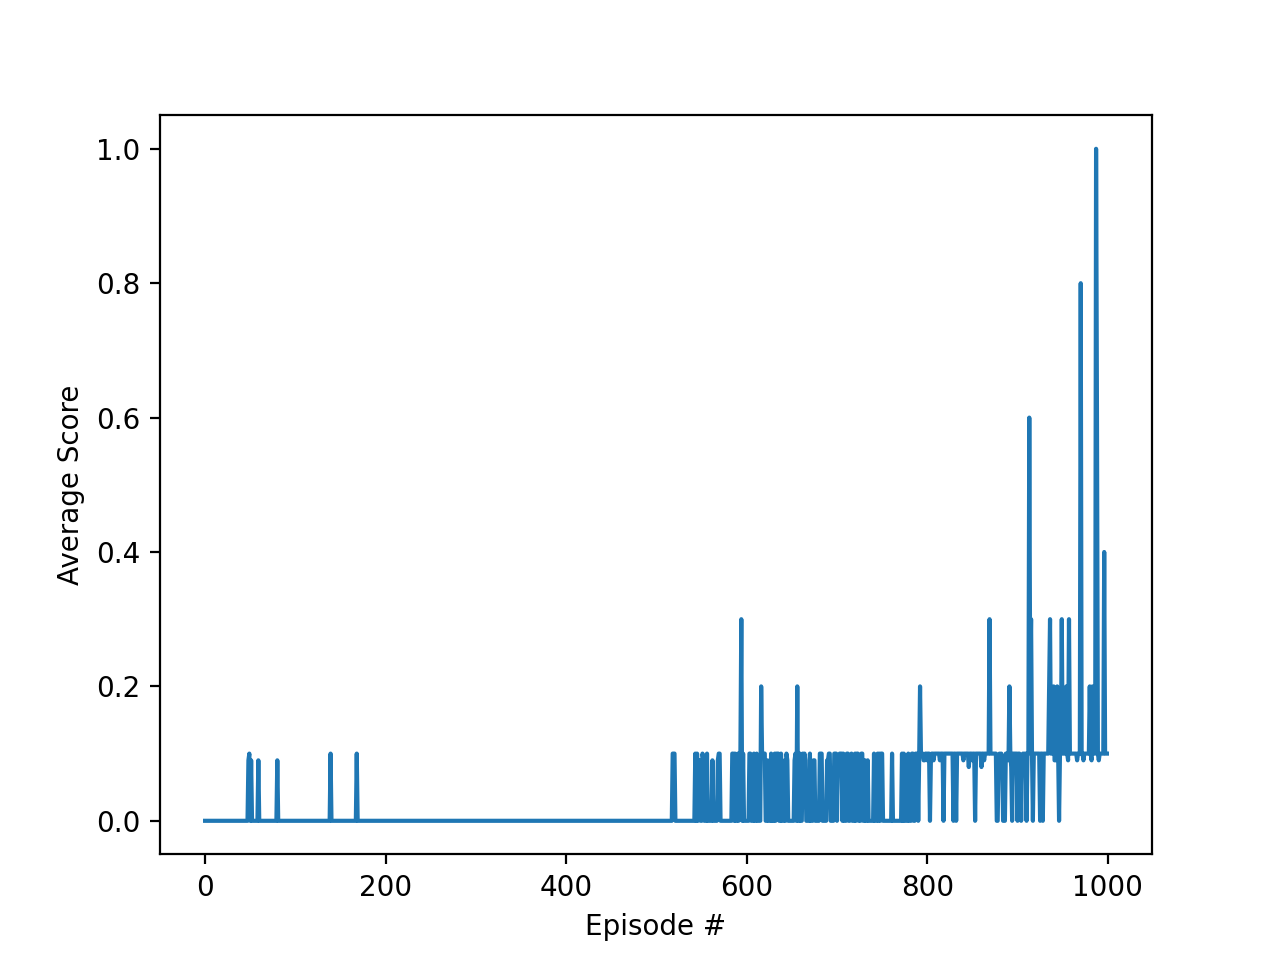
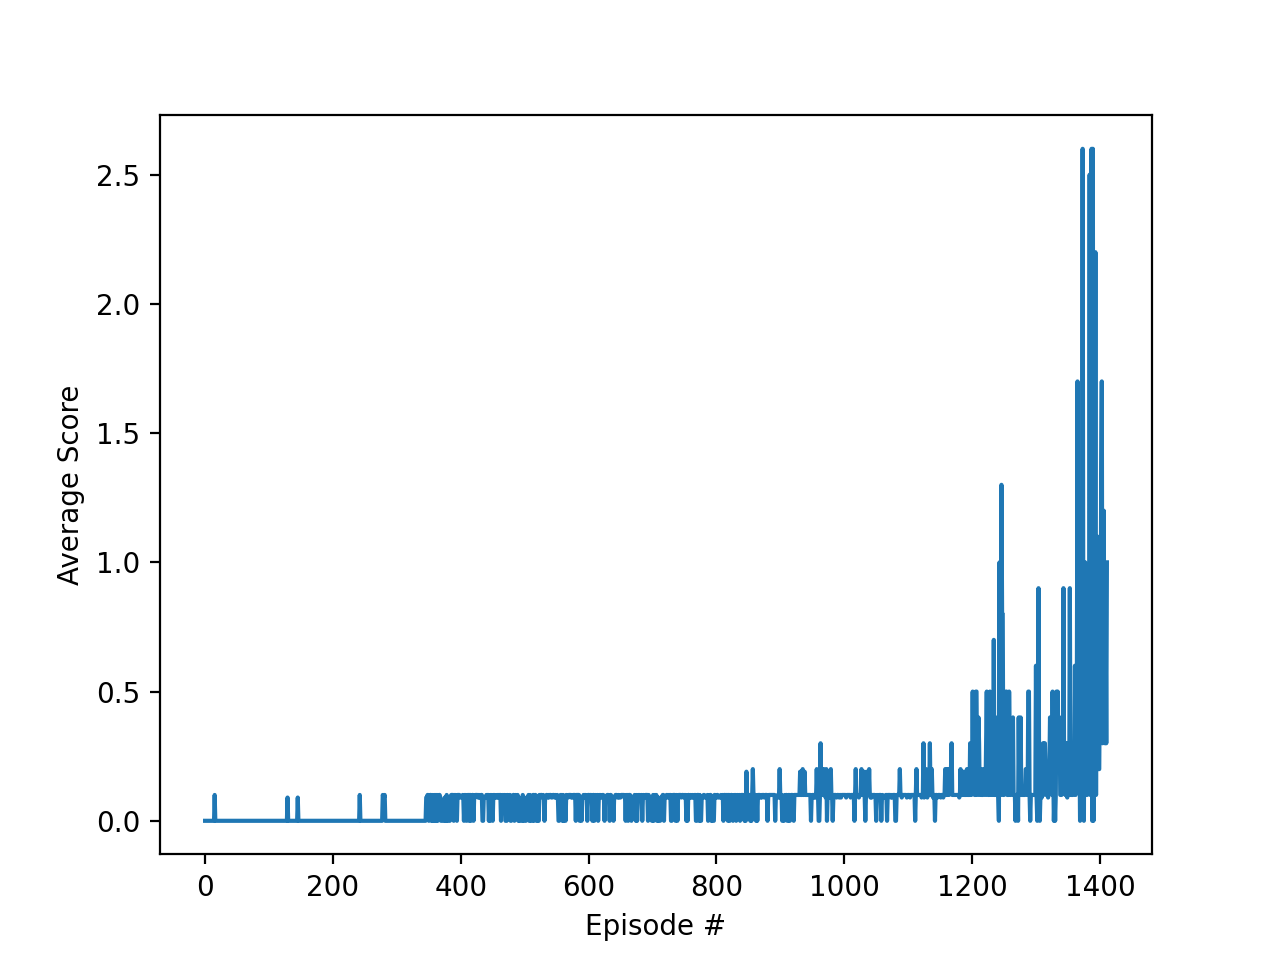
updated test and report

diff --git a/tennis/environment.py b/tennis/environment.py
@@ -5,17 +5,17 @@ import numpy as np
 import torch
 import os
 
-def make_plot(show=False):
+
+def make_plot(scores_file,save_path,show=False):
     """Makes a pretty training plot call score.png.
     Args:
         show (bool):  If True, show the image.  If False, save the image.
     """
-
-
-
+    'scores/scores_train.npz'
+    './ images / scores.png'
     # Load the previous scores and calculated running mean of 100 runs
     # ---------------------------------------------------------------------------------------
-    with np.load('scores.npz') as data:
+    with np.load(scores_file) as data:
         scores = data['arr_0']
     cum_sum = np.cumsum(np.insert(scores, 0, 0))
     rolling_mean = (cum_sum[100:] - cum_sum[:-100]) / 100
@@ -29,7 +29,7 @@ def make_plot(show=False):
     plt.scatter(x, scores, s=2, c='k', label='Raw Scores', zorder=4)
     plt.plot(x[99:], rolling_mean, lw=2, label='Rolling Mean', zorder=3)
     plt.scatter(x_max, rolling_mean[-1], c='g', s=40, marker='*', label='Episode {}'.format(x_max), zorder=5)
-    plt.plot([0, x_max], [30, 30], lw=1, c='grey', ls='--', label='Target Score = 30', zorder=1)
+    plt.plot([0, x_max], [0.5, 0.5], lw=1, c='grey', ls='--', label='Target Score = 0.5', zorder=1)
     plt.plot([x_max, x_max], [y_min, rolling_mean[-1]], lw=1, c='grey', ls='--', label=None, zorder=2)
     plt.ylabel('Score')
     plt.xlabel('Episode #')
@@ -39,11 +39,13 @@ def make_plot(show=False):
     if show:
         plt.show()
     else:
-        plt.savefig('./images/scores.png', dpi=200)
+        plt.savefig(save_path, dpi=200)
     plt.close()
 
-def make_plot_learning(show=False):
-    with np.load('scores.npz') as data:
+
+def make_plot_learning(scores_file,save_path,show=False):
+    #scores/scores_train.npz
+    with np.load(scores_file) as data:
         scores = data['arr_0']
     fig = plt.figure()
     ax = fig.add_subplot(111)
@@ -53,10 +55,12 @@ def make_plot_learning(show=False):
     if show:
         plt.show()
     else:
-        plt.savefig('./images/learning.png', dpi=200)
+        #'./images/learning.png'
+        plt.savefig(save_path, dpi=200)
     plt.close()
 
-def train(agent,env,n_episodes=2_000,max_t=1000,save_models=True):
+
+def train(agent, env, n_episodes=2_000, max_t=1000, save_models=True):
     """
     :param agent: The agent to train
     :param env: The trainining environment
@@ -72,8 +76,7 @@ def train(agent,env,n_episodes=2_000,max_t=1000,save_models=True):
 
     # Save pytorch_models weights and scores
 
-
-    for i_episode in range(1,n_episodes+1):
+    for i_episode in range(1, n_episodes + 1):
         brain_info = env.reset(train_mode=True)[brain_name]
         states = brain_info.vector_observations
         # Reset the agents noise level
@@ -103,20 +106,18 @@ def train(agent,env,n_episodes=2_000,max_t=1000,save_models=True):
         print('\rEpisode {}\tAverage Score: {:.4f}\tCurrent Score: {:.4f}\t Max Score: {:.4f}'
               .format(i_episode, np.mean(scores_window), score, np.max(scores_window)), end="")
 
-
         if i_episode % 100 == 0:
             print('\rEpisode {}\tAverage Score: {:.4f}'.format(i_episode, np.mean(scores_window)))
         if np.mean(scores_window) >= 0.5:
             print('\nEnvironment solved in {:d} episodes!\tAverage Score: {:.2f}'.format(i_episode,
                                                                                          np.mean(scores_window)))
-            #agent.saveCheckPoints(True)
-            #agent.save()
+            # agent.saveCheckPoints(True)
+            # agent.save()
             if save_models and not os.path.exists("./pytorch_models"):
                 os.makedirs("./pytorch_models")
             file_name = "%s_%s_%s" % ("DDPG", brain_name, str(0))
             agent.save("%s" % file_name, directory="./pytorch_models")
             break
-
 
     np.savez('scores.npz', scores)
 
@@ -133,7 +134,5 @@ def setup(env):
     state_size = env_info.vector_observations.shape[1]
     num_agents = len(env_info.agents)
 
-    #------- Setup MADDPG Agent ------#
-    return MADDPG(num_agents,state_size,action_size)
-
-
+    # ------- Setup MADDPG Agent ------#
+    return MADDPG(num_agents, state_size, action_size)

diff --git a/run_agent.py b/run_agent.py
@@ -1,31 +1,58 @@
 import os
 from unityagents import UnityEnvironment
 from tennis.maddpg_agent import MADDPG
+import numpy as np
+from tennis.environment import make_plot,make_plot_learning
 
 
-env = UnityEnvironment('unity/Tennis.app')
 
 if __name__ == '__main__':
-
+    env = UnityEnvironment('./unity/Tennis.app')
     brain_name = env.brain_names[0]
     brain = env.brains[brain_name]
     env_info = env.reset(train_mode=True)[brain_name]
-    action_size = brain.vector_action_space_size
-    state_size = env_info.vector_observations.shape[1]
-    states = env_info.vector_observations[0]
+    state_dim = int(env_info.vector_observations.shape[1])
+    action_dim = int(brain.vector_action_space_size)
+    states = env_info.vector_observations
+    num_agents = len(env_info.agents)
+    agent = MADDPG(num_agents, state_dim, action_dim, 66)
+    # Load agent
+    agent.loadCheckPoints(isFinal=True)
     score = 0
-    agent = MADDPG(len(env_info.agents),state_size,action_size)
-    agent.loadCheckPoints(True)
+    n_episodes = 30
 
-    while True:
-        action = agent.act(states)
-        env_info = env.step(action)[brain_name]
-        next_state = env_info.vector_observations
-        reward = env_info.rewards
-        done = env_info.local_done
-        score += reward
-        state = next_state
-        if done:
-            break
+    scores = []
+    for i_episode in range(1, n_episodes + 1):
+        env_info = env.reset(train_mode=True)[brain_name]
+        states = env_info.vector_observations
 
-    print("Score: {}".format(score))
+        # initialize score value calculations for 2 agents
+        scores_episode = np.zeros(num_agents)
+
+        while True:
+            actions = agent.act(states)  # get action from agent
+            env_info = env.step(actions)[brain_name]  # send actions to the environment
+            next_states = env_info.vector_observations  # get next states
+            rewards = env_info.rewards  # get rewards
+            dones = env_info.local_done  # see if episodes finished
+
+            # Append stats
+            scores_episode += rewards
+            states = next_states
+
+            # break if any agents are done
+            if np.any(dones):
+                break
+
+        # calculate intermediate stats
+        score = np.max(scores_episode)
+        scores.append(score)
+
+        # display current stats
+        print('Episode {}\tAverage Score: {:.4f}\tCurrent Score: {:.4f}\t Max Score: {:.4f}'
+              .format(i_episode, np.mean(scores), score, np.max(scores)))
+
+    scores_file = './scores/scores_test.npz'
+    np.savez(scores_file, scores)
+    #make_plot_scores(scores_file,'./images/scores_test.png')
+    #make_plot_learning(scores_file,'./images/scores_test.png')

diff --git a/tennis/maddpg_agent.py b/tennis/maddpg_agent.py
@@ -81,8 +81,8 @@ class MADDPG(object):
         """Loads the checkpoint weight of MARL params"""
         if (isFinal):
             for i, agent in enumerate(self.agents):
-                agent.actor_local.load_state_dict(torch.load(f"../pytorch_models/final/actor_agent_{i}.pth"))
-                agent.critic_local.load_state_dict(torch.load(f"../pytorch_models/final/critic_agent_{i}.pth"))
+                agent.actor_local.load_state_dict(torch.load(f"./pytorch_models/final/actor_agent_{i}.pth"))
+                agent.critic_local.load_state_dict(torch.load(f"./pytorch_models/final/critic_agent_{i}.pth"))
         else:
             for i, agent in enumerate(self.agents):
                 agent.actor_local.load_state_dict(torch.load(f"../pytorch_models/checkpoint/actor_agent_{i}.pth"))

diff --git a/train_agent.py b/train_agent.py
@@ -2,16 +2,16 @@ from tennis.environment import setup,train,make_plot_learning,make_plot
 from unityagents import UnityEnvironment
 import os
 
-#env = UnityEnvironment('./unity/Tennis.app')
+env = UnityEnvironment('./unity/Tennis.app')
 
 if __name__ == '__main__':
 
-    for name in ['./images/score.png','./images/learning.png', './scores/ddpg_scores.npz']:
+    for name in ['./images/score.png','./images/learning.png']:
         if os.path.isfile(name):
             os.remove(name)
 
-    #agent = setup(env)
-    #print("Started Agent Training")
-    #train(agent,env)
+    agent = setup(env)
+    print("Started Agent Training")
+    train(agent,env)
     make_plot()
     make_plot_learning()

diff --git a/Report.md b/Report.md
@@ -1,0 +1,83 @@
+#Implementation
+## Problem Statement:
+In Tennis app unity environment the multi agent must get an average score of +0.5 over 100 consecutive episodes.
+##Algorithm:
+Deep Deterministic Policy Gradient (DDPG) is a reinforcement learning technique that combines both Q-learning and Policy gradients. DDPG being an actor-critic technique consists of two models: Actor and Critic. The actor is a policy network that takes the state as input and outputs the exact action (continuous), instead of a probability distribution over actions. The critic is a Q-value network that takes in state and action as input and outputs the Q-value. DDPG is an “off”-policy method. DDPG is used in the continuous action setting and the “deterministic” in DDPG refers to the fact that the actor computes the action directly instead of a probability distribution over actions.
+DDPG is used in a continuous action setting and is an improvement over the vanilla actor-critic.<br>
+
+![Alt text](images/ddpg.png?raw=true "DDPG Algorithm")
+#Implementation
+Following are the hyper-parameters used to solve the problem.
+
+- BATCH_SIZE = 256
+- BUFFER_SIZE = int(1e5)
+- GAMMA = 0.9
+- TAU = 1e-2
+- LR_ACTOR = 2e-4
+- LR_CRITIC = 2e-4
+- POLICY_NOISE = 0.2
+- NOISE_CLIP =0.5
+-WEIGHT_DECAY = 0.0
+
+
+## Neural Network Architecture
+Two neural network models with one Actor , Critic for current and Actor, Critic for target models has been implemented with the following architecture
+
+## Actor Model:
+
+  - Total Layers: 3 with final Activation function with Tanh<br>
+  - All input parameters normalized using BatchNorm1d  
+  - First Layer with Input shape 24, output dimension 128 with Relu Activation
+  - Second Layer with Input shape 128, output dimension 128 with Relu Activation
+  - Third Layer with Input shape 128 and output dimension 2 with Tanh Activation
+
+## Critic Model:
+
+  - Total Layers: 3 
+  - All input parameters normalized using BatchNorm1d  
+  - First Layer with Input shape 24, output dimension 128 with Relu Activation
+  - Second Layer with Input shape 128 + action_dim, output dimension 128 with Relu Activation
+  - Third layer without any activation function.
+
+
+### Training
+The DDPG Agent took around 1412 episodes to achieve the average score of 0.5 <br>
+
+![Alt text](images/scores.png?raw=true "Agent Score")
+![Alt text](images/learning.png?raw=true "Agent Score")
+
+### Inference
+After successfully training the agent and tested the model with 30 episodes
+
+![Alt text](images/scores_test.png?raw=true "Agent Test Score")
+
+
+
+# Next Steps / Improvements:
+
+- ## Implementing using TD3 Model (Twin Delay DDPG):
+TD3 is the successor to the DDPG. Up unitl recently, DDPG was one of the most used algorithms for continuous control problems.
+Although DDPG is capable of providing excellent results, it has its drawbacks. Like many RL algorithms training DDPG can be unstable and heavily reliant  on finding the hyper parameters.
+This is caused by the algorithm continuously over estimating the Q values of the critic (value) network. These estimation errors build up over time and can lead to the agent falling into a 
+local optima or experience catastrophic forgetting.
+TD3 address this issues by focusing on reducing the overestimation bias. 
+    - Using a pair of critic networks (The twin part of the title)
+    - Delayed updates of the actor (The delayed part)
+    - Action noise regularisation
+<br>
+
+Following are the Algorithm Steps:
+
+1. Initialize Network
+2. Initialize Replay Buffer
+3. Select and carry out action with exploration noise
+4. Store Transitions
+5. Update Critic
+6. Find the minimum of Critic Targets.
+7. Update Actor
+8. Update Target networks.
+9. Repeat until sentient.
+
+
+
+
